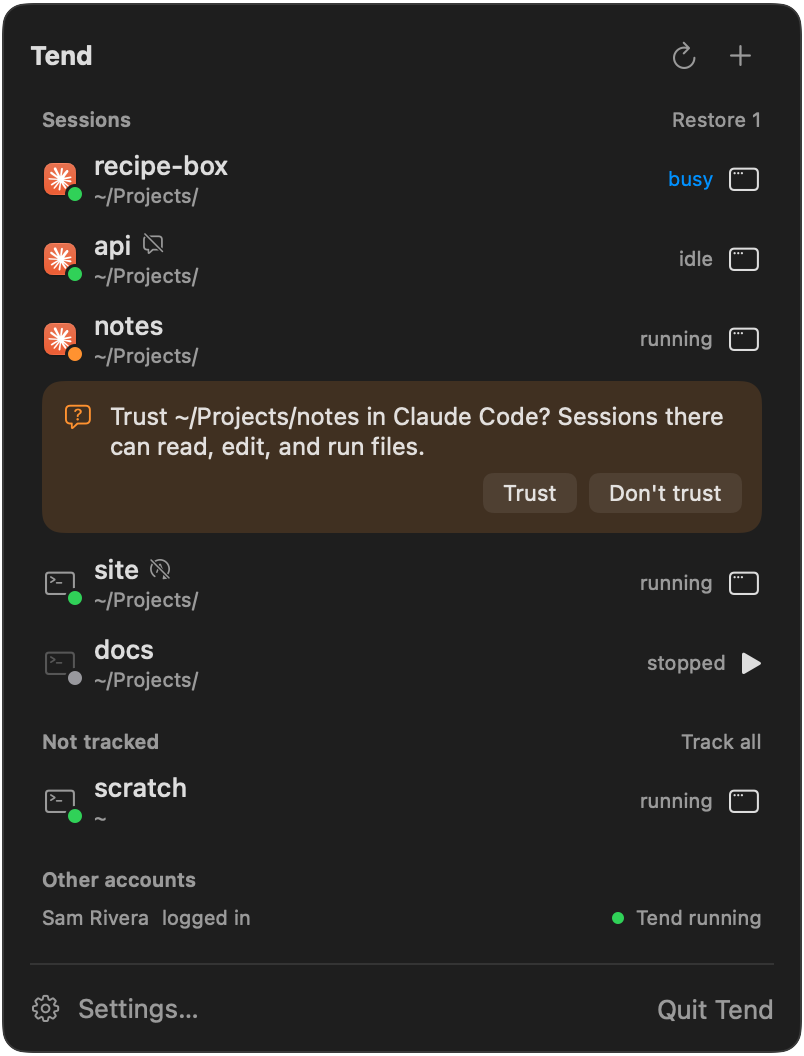
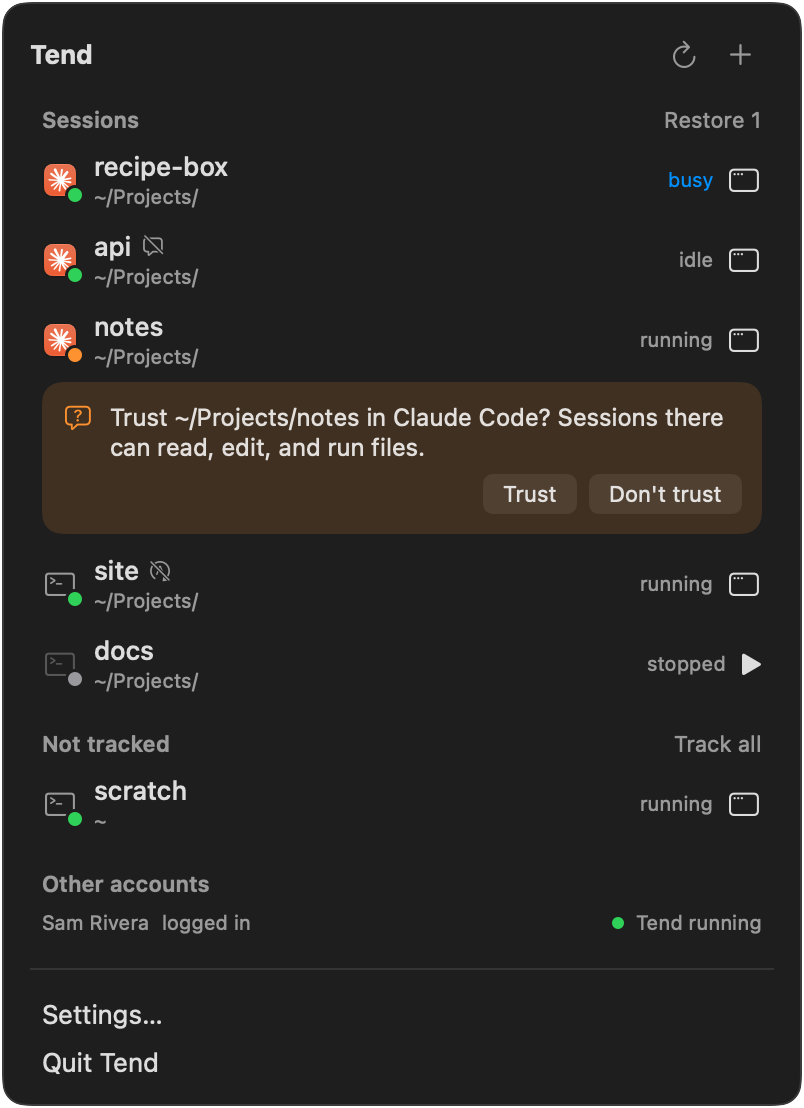
App: give the panel a shadow, and match the Mac's own panels
The glass panel cast no shadow, because the window's shadow outlined its
square corners. Clip the glass view to the panel's radius, keep the
window's shadow, and redraw it after every fit and appearance change.
On macOS 26 and later, hang the panel 2 points below the menu bar, as a
menu does, use a menu's 11-point section headers, and show Settings…
and Quit Tend as menu items. Record the audit in docs/intent.md.

diff --git a/app/Glass.swift b/app/Glass.swift
@@ -45,13 +45,23 @@ enum Design {
 
     /// The corner radius of a row's hover and selection highlight.
     static var rowCornerRadius: CGFloat { glass ? 8 : 6 }
+
+    /// Space between the bottom of the menu bar and the panel's top. Glass: a
+    /// menu bar menu's on macOS 26 and later, measured from a real one.
+    static var menuBarGap: CGFloat { glass ? 2 : 4 }
+
+    /// The size of a section header, like "Sessions", and its button. Glass:
+    /// a menu's section header, 11 points, measured from a real one. Before:
+    /// 10 points.
+    static var sectionHeaderFont: Font { glass ? .subheadline : .caption }
 }
 
 // MARK: - The panel's background
 
 /// The panel's background view, which holds the SwiftUI content. Glass: an
-/// `NSGlassEffectView` with the panel's corner radius. Before: the menu
-/// material, with corners cut by a mask image.
+/// `NSGlassEffectView` with the panel's corner radius, clipped to it. Before:
+/// the menu material, with corners cut by a mask image. Either way, the
+/// window's shadow follows the rounded shape, as a menu's does.
 @MainActor
 enum PanelBackground {
     static func make() -> NSView {
@@ -59,6 +69,14 @@ enum PanelBackground {
             let glass = NSGlassEffectView()
             glass.style = .regular
             glass.cornerRadius = Design.panelCornerRadius
+            // Clip the view to the glass's shape too. The window server
+            // draws the window's shadow and its edge from what the window
+            // draws, and the glass alone leaves it the window's square
+            // bounds, so they outlined the corners.
+            glass.wantsLayer = true
+            glass.layer?.cornerRadius = Design.panelCornerRadius
+            glass.layer?.cornerCurve = .continuous
+            glass.layer?.masksToBounds = true
             return glass
         }
         let background = NSVisualEffectView()
@@ -68,11 +86,6 @@ enum PanelBackground {
         background.maskImage = roundedMask(radius: Design.panelCornerRadius)
         return background
     }
-
-    /// Whether the panel's window draws a shadow. Glass draws its own,
-    /// following its corners; a window shadow would outline the window's
-    /// square bounds. Before: the window's shadow follows the mask.
-    static var windowShadow: Bool { !Design.glass }
 
     /// Put the panel's content inside its background, filling it.
     static func setContent(_ view: NSView, in background: NSView) {
@@ -302,6 +315,71 @@ struct HeaderButtons<Content: View>: View {
         } else {
             HStack(spacing: 8) { content }
                 .buttonStyle(.borderless)
+        }
+    }
+}
+
+/// The panel's footer: Settings… and Quit Tend. Glass: menu items, one per
+/// line, as Control Center's "Sound Settings…" and a menu's last group
+/// are: primary text, highlighted while you hover, like a session's row.
+/// Before: borderless buttons on one line, Settings… with a gear.
+struct PanelFooter<Settings: View, Quit: View>: View {
+    @ViewBuilder let settings: Settings
+    @ViewBuilder let quit: Quit
+
+    var body: some View {
+        if #available(macOS 26, *), Design.glass {
+            VStack(alignment: .leading, spacing: 0) {
+                settings
+                quit
+            }
+            .buttonStyle(MenuItemButtonStyle())
+            // Let the highlights reach into the padding around the footer, so
+            // the text sits where it did.
+            .padding(.vertical, -4)
+        } else {
+            HStack {
+                settings
+                Spacer()
+                quit
+            }
+            .buttonStyle(.borderless)
+        }
+    }
+}
+
+/// The Settings… button's label. Glass: text, as in a menu. Before: with a gear.
+struct SettingsLabel: View {
+    var body: some View {
+        if #available(macOS 26, *), Design.glass {
+            Text("Settings…")
+        } else {
+            Label("Settings…", systemImage: "gearshape")
+        }
+    }
+}
+
+/// A button drawn as a menu item in the panel: the whole line, primary
+/// text, and while you hover, the same highlight as a session's row.
+struct MenuItemButtonStyle: ButtonStyle {
+    func makeBody(configuration: Configuration) -> some View {
+        MenuItem(configuration: configuration)
+    }
+
+    private struct MenuItem: View {
+        let configuration: ButtonStyleConfiguration
+        @State private var hovering = false
+
+        var body: some View {
+            configuration.label
+                .foregroundStyle(Color.primary)
+                .frame(maxWidth: .infinity, alignment: .leading)
+                .padding(.horizontal, 6)
+                .padding(.vertical, 4)
+                .background(RoundedRectangle(cornerRadius: Design.rowCornerRadius)
+                    .fill(Color.primary.opacity(configuration.isPressed ? 0.1 : hovering ? 0.06 : 0)))
+                .contentShape(Rectangle())
+                .onHover { hovering = $0 }
         }
     }
 }

diff --git a/app/Tend.swift b/app/Tend.swift
@@ -788,6 +788,7 @@ final class StatusPanelController: NSObject, NSWindowDelegate, NSDraggingDestina
     private var modalDepth = 0
     private let host: NSHostingController<AnyView>
     private var sizeObservation: NSKeyValueObservation?
+    private var appearanceObservation: NSKeyValueObservation?
 
     init(model: Model) {
         self.model = model
@@ -801,6 +802,10 @@ final class StatusPanelController: NSObject, NSWindowDelegate, NSDraggingDestina
         // Grow and shrink with the content, keeping the top under the menu bar.
         sizeObservation = host.observe(\.preferredContentSize) { [weak self] _, _ in
             DispatchQueue.main.async { self?.fitToContent() }
+        }
+        // Light and dark draw a different edge, so the shadow follows.
+        appearanceObservation = NSApp.observe(\.effectiveAppearance) { [weak self] _, _ in
+            DispatchQueue.main.async { self?.panel.invalidateShadow() }
         }
         panel.delegate = self
         panel.onCancel = { [weak self] in self?.escape() }
@@ -898,6 +903,8 @@ final class StatusPanelController: NSObject, NSWindowDelegate, NSDraggingDestina
         DispatchQueue.main.async { [weak self] in
             guard let self, panel.isVisible else { return }
             statusItem.button?.highlight(true)
+            // Once the content has drawn, the shadow takes its shape.
+            panel.invalidateShadow()
         }
         // A click in another app closes the panel. Clicks in this app's
         // other windows, like Settings, take the key window, which closes it too.
@@ -947,7 +954,11 @@ final class StatusPanelController: NSObject, NSWindowDelegate, NSDraggingDestina
             // right end of the menu bar, where menu bar items are.
             item = NSRect(x: visible.maxX - size.width, y: visible.maxY, width: 0, height: 0)
         }
-        let top = item.minY - 4
+        // Hang from the bottom of the menu bar, as a menu does. The item's
+        // window spans the menu bar; while the menu bar hides itself, it's
+        // lower than the visible frame's top.
+        let menuBarBottom = hidden ? visible.maxY : min(buttonWindow.frame.minY, visible.maxY)
+        let top = menuBarBottom - Design.menuBarGap
         let maxHeight = max(100, top - visible.minY - 8)
         if abs(model.panelMaxHeight - maxHeight) > 0.5 { model.panelMaxHeight = maxHeight }
         guard size.width > 0, size.height > 0 else { return }
@@ -956,6 +967,9 @@ final class StatusPanelController: NSObject, NSWindowDelegate, NSDraggingDestina
         x = max(x, visible.minX + 6)
         let height = min(size.height, maxHeight)
         panel.setFrame(NSRect(x: x, y: top - height, width: size.width, height: height), display: true)
+        // The window server draws the shadow from the window's shape, so
+        // redraw it at the new size.
+        panel.invalidateShadow()
     }
 
     /// Run a modal window, like the folder picker, over the panel. The panel
@@ -1039,7 +1053,9 @@ final class TendPanel: NSPanel {
         collectionBehavior = [.canJoinAllSpaces, .fullScreenAuxiliary, .transient, .ignoresCycle]
         isOpaque = false
         backgroundColor = .clear
-        hasShadow = PanelBackground.windowShadow
+        // A shadow, as a menu has. It follows the background's rounded
+        // shape; `StatusPanelController.fitToContent` redraws it.
+        hasShadow = true
         hidesOnDeactivate = false
         isReleasedWhenClosed = false
         animationBehavior = .utilityWindow
@@ -1324,20 +1340,19 @@ struct ContentView: View {
     }
 
     var footer: some View {
-        HStack {
+        PanelFooter {
             Button {
                 openSettings()
                 NSApp.activate(ignoringOtherApps: true)
             } label: {
-                Label("Settings…", systemImage: "gearshape")
+                SettingsLabel()
             }
             .keyboardShortcut(",")
             .help("The apps Tend recognizes, the terminal it opens sessions in, startup, and other accounts")
-            Spacer()
+        } quit: {
             Button("Quit Tend") { NSApp.terminate(nil) }
                 .help("Quit the menu bar app. Your tmux sessions keep running.")
         }
-        .buttonStyle(.borderless)
     }
 }
 
@@ -1539,9 +1554,9 @@ struct SectionHeader<Trailing: View>: View {
 
     var body: some View {
         HStack {
-            Text(title).font(.caption).fontWeight(.semibold).foregroundStyle(.secondary)
+            Text(title).font(Design.sectionHeaderFont).fontWeight(.semibold).foregroundStyle(.secondary)
             Spacer()
-            trailing.font(.caption).buttonStyle(.borderless)
+            trailing.font(Design.sectionHeaderFont).buttonStyle(.borderless)
         }
         .padding(.horizontal, 6)
         .padding(.bottom, 2)

diff --git a/docs/intent.md b/docs/intent.md
@@ -337,6 +337,40 @@ deliberate, and lives in `sync()`: `status()` itself only reads, so `wait`,
   content starts or stops fitting. On macOS 14 and 15, the middle scrolls
   between the header and footer, clipped, with a hairline under the header
   while it doesn't fit, to match the divider over the footer.
+- **The panel matches the Mac's own panels.** An audit on macOS 27.2
+  compared the panel with a menu bar menu and a status menu captured on the
+  same Mac. Control Center's modules couldn't be opened for capture,
+  because their menu bar items don't appear in the accessibility tree there.
+  - *Shadow.* The first glass version turned the window's shadow off,
+    because the shadow and the window server's edge outlined the window's
+    square corners, so the panel cast no shadow at all and looked unlike
+    every other panel. The window server draws both from the shape the
+    window draws, and `NSGlassEffectView` leaves that square. So
+    `PanelBackground` also clips the glass view's layer to the panel's
+    corner radius, the window keeps `hasShadow`, and the controller calls
+    `invalidateShadow()` after every fit, after the panel first draws, and
+    when the appearance changes. The shadow is the window server's, as an
+    `NSPopover`'s is. A menu draws a softer one inside its own window, about
+    twice as wide; matching that would mean a larger, mostly transparent
+    window whose shadow catches clicks meant for the app below, so it
+    wasn't done. The fallback's mask image already shaped its shadow.
+  - *Placement.* A menu bar menu's top sits 2 points below the menu bar;
+    the glass panel now does too, measured from the menu bar's bottom
+    rather than the item's button (`Design.menuBarGap`). The fallback keeps
+    4 points.
+  - *Section headers.* A menu's section header is 11 points semibold;
+    glass now uses `.subheadline` (11 points) instead of `.caption` (10).
+  - *Footer.* Control Center ends a module with a menu item ("Sound
+    Settings…"), and a status menu ends with Settings… and Quit, one per
+    line. Glass now shows Settings… and Quit Tend that way
+    (`PanelFooter`, `MenuItemButtonStyle`): primary text, the whole line,
+    and the same hover highlight as a row. The fallback keeps its gear and
+    one line.
+  - *Matched already:* the glass material and its edge in light and dark,
+    the corner radius (18, a popover's), the panel appearing at once and
+    fading out in about 0.15 seconds (a menu takes about 0.2), the
+    keyboard selection in the system's selection colors, and Control
+    Center's gray hover.
 - **Command-C copies the attach command.** Copying a session most often
   means "let me attach to it in a terminal I already have", so Command-C
   puts `tend ls --json`'s `attach` field (`tmux attach -t =NAME`, or your
@@ -412,9 +446,8 @@ deliberate, and lives in `sync()`: `status()` itself only reads, so `wait`,
   inside the panel's `containerShape`). Banners keep their tints, so orange
   still means "needs you" and red an error. Rows stay borderless. The
   panel's corner radius, 18 points, matches a popover measured on macOS 27;
-  a menu's is 12, which the fallback keeps. Glass draws its own shadow, so
-  the window's shadow is off on macOS 26 and later, where it outlined the
-  window's square corners.
+  a menu's is 12, which the fallback keeps. The panel casts the window's
+  shadow in both designs (see "The panel matches the Mac's own panels").
 - **The app icon is a layered Icon Composer document.** `app/AppIcon.icon`
   keeps the old design, with the gradient as the document's fill and the
   chevron and the sprout as separate glass layers, so macOS 26 and later
@@ -547,7 +580,14 @@ Untested, in rough order of risk:
    size with the list still focused, in both designs, light and dark. Not
    seen: scrolling with a trackpad or mouse wheel (synthetic wheel events
    don't reach a SwiftUI scroll view), a screen change while the panel is
-   open, and a drop onto the panel while it scrolls.
+   open, and a drop onto the panel while it scrolls. On November 23, 2026,
+   for the panel audit: the shadow and its corners at the fitting size and
+   with the form open, the 2-point gap, the footer's hover, and the
+   fallback drawing the same pixels as before, in both designs, light and
+   dark. Not seen: Control Center's own panels, the status item's pressed
+   highlight, and the panel on a second display. Status items in Control
+   Center open on mouse down; Tend's opens on mouse up, which wasn't
+   changed because it couldn't be tried with the item hidden.
 5. **Open in terminal** (iTerm through AppleScript) from inside a tend
    session fails with "Not authorized to send Apple events to iTerm
    (-1743)". When a launch agent starts the tmux server (see

diff --git a/CHANGELOG.md b/CHANGELOG.md
@@ -45,6 +45,10 @@ This file lists the changes in each release of Tend. Versions follow
 
 ### Changed
 
+- On macOS 26 and later, the panel looks more like the Mac's own menu bar
+  panels: it hangs 2 points below the menu bar, as a menu does; section
+  headers are 11 points, as in a menu; and Settings… and Quit Tend are menu
+  items at the bottom, like Control Center's "Sound Settings…".
 - Tend calls tracked tmux sessions "sessions" everywhere. A new config file is
   named `sessions.json`. An existing `services.json` keeps working.
 - tend adds Homebrew and `~/.local/bin` to the end of your `PATH` instead of
@@ -72,6 +76,10 @@ This file lists the changes in each release of Tend. Versions follow
 
 ### Fixed
 
+- On macOS 26 and later, the panel had no shadow, so it didn't stand out
+  from what's under it the way the Mac's own panels do. It now casts one
+  that follows its rounded corners, and the shadow follows the panel as it
+  grows and shrinks.
 - Cut, Copy, Paste, Select All, and Undo didn't work in the panel's text
   fields.
 - VoiceOver read some icons by their symbol names, like "bubble.left, off".
